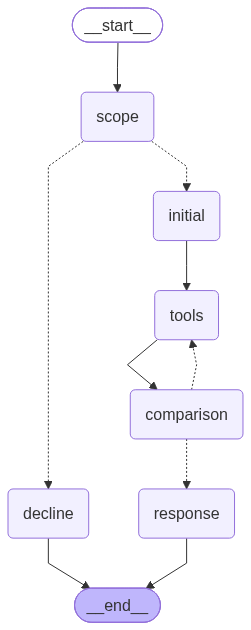
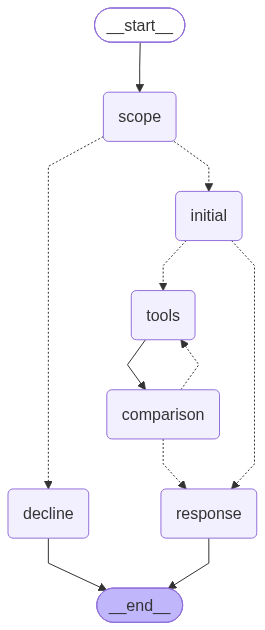
bug fixes

diff --git a/chains.py b/chains.py
@@ -16,6 +16,7 @@ initial_retrieval_prompt = ChatPromptTemplate.from_messages(
             "You are a helpful assistant that helps the user in retrieving relevant documents based on the query\n"
             "You have access to the following tool: \n"
             "retrieve_chunks that retrieves the relevant documents from the database\n"
+            "If you think the query does not require any retrieval, do not retrieve anything\n"
         ),
         (
             "human",
@@ -73,7 +74,7 @@ response_llm = ChatGoogleGenerativeAI(model = "gemini-3.6-flash")
 response_chain = response_prompt | response_llm
 
 class ScopeCheck(BaseModel):
-    scope: str = Field(description = "'ACCEPT' if the query is within the scope else 'DECLINE'")
+    scope: bool = Field(description = "'ACCEPT' if the query is within the scope else 'DECLINE'")
 
 scope_prompt = ChatPromptTemplate.from_messages(
     [(
@@ -81,6 +82,7 @@ scope_prompt = ChatPromptTemplate.from_messages(
         "You are a helpful classifier that classifies where the user query falls within the scope of reasoning or not.\n"
         "The scope here is Computer science related research papers present of the arxiv website\n"
         "Only accept the query if the user query is related to the defined scope above\n"
+        "if the query is unrelated but it is like a generic one like 'hello', 'how are you', etc, accept it\n"
         "if it is outside the scope, give response as 'False'\n"
         "if the query is within the scope, give response as 'True'\n"
     ),

diff --git a/nodes.py b/nodes.py
@@ -63,7 +63,7 @@ build.add_conditional_edges(SCOPE, accepted_or_declined, path_map= {INITIAL: INI
 build.add_edge(DECLINE, END)
 build.add_node(INITIAL, initial_node)
 build.add_node(TOOLS, tools)
-build.add_edge(INITIAL, TOOLS)
+build.add_conditional_edges(INITIAL, tool_node, path_map= {TOOLS: TOOLS, RESPONSE: RESPONSE})
 build.add_node(COMPARISON, comparison_node)
 build.add_edge(TOOLS, COMPARISON)
 build.add_node(RESPONSE, response_node)
